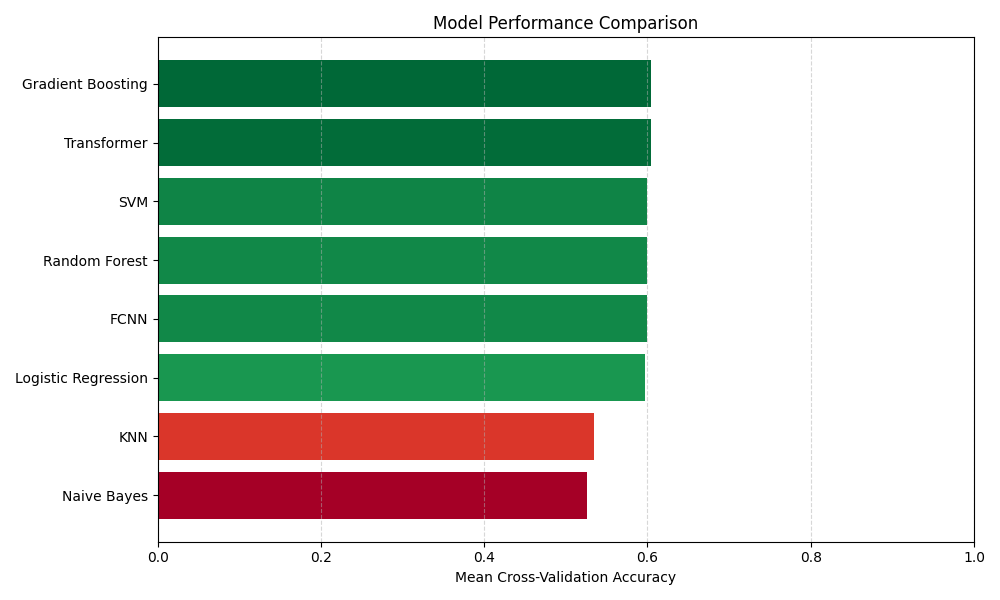
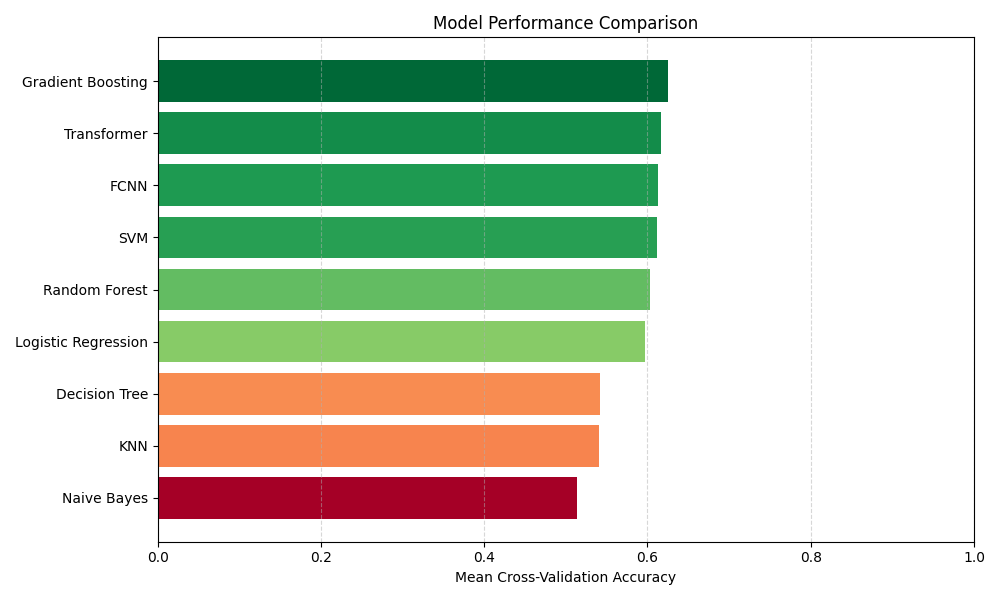
Update model performance metrics and added decision tree

Changed region(s): [[0.031, 0.09, 0.682, 0.87], [0.0, 0.12, 0.155, 0.15], [0.062, 0.81, 0.155, 0.84]]

diff --git a/README.md b/README.md
@@ -50,5 +50,6 @@ New fight event data is added periodically to keep the model updated. The pipeli
 ![Learning Curve for Logistic Regression](results/learning_curve_Logistic_Regression.png)
 ![Learning Curve for K-Nearest Neighbors](results/learning_curve_KNN.png)
 ![Learning Curve for Naive Bayes](results/learning_curve_Naive_Bayes.png)
+![Learning Curve for Decision Tree](results/learning_curve_Decision_Tree.png)
 ![Learning Curve for Fully Connected Neural Network](results/learning_curve_FCNN.png)
 ![Learning Curve for Transformer](results/learning_curve_Transformer.png)
